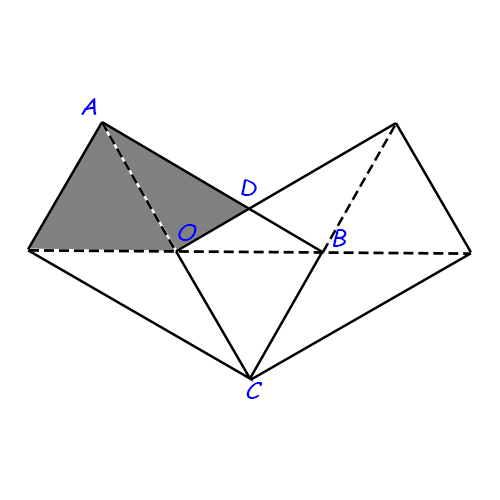
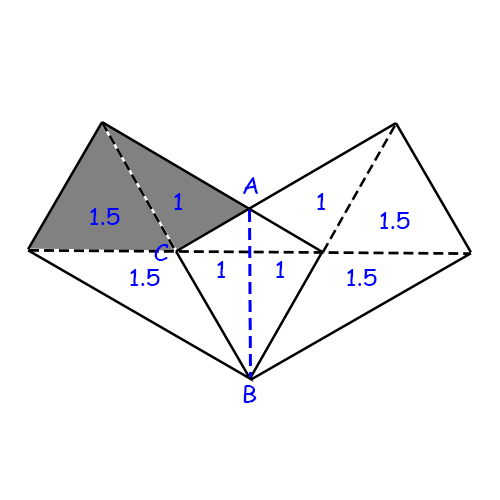
0531

diff --git a/latex/huixin/2025_yingchun_grade34/PDF/contents/chapter_2.tex b/latex/huixin/2025_yingchun_grade34/PDF/contents/chapter_2.tex
@@ -352,20 +352,9 @@
                 \centering
                 \includegraphics[width=0.4\textwidth]{./pics/Chapter_2/seikai_5.png}
             \end{figure}
-            设 $BC=a$. \\
+            连接辅助线. 设ABC的面积为1份，那么其他部分的份数如图所示.\\
             \begin{align*}
-                {AB}^2 &= {AC}^2 - {BC}^2 \\
-                       &= 3{a}^2. \\
-                \triangle DBO &\backsim \triangle OAB,\\
-                \therefore S_{\triangle DBO} : S_{\triangle OAB} &= {OB}^2 : {AB}^2 \\
-                &= {a}^2 : 3{a}^2 \\
-                &=  1:3.
-            \end{align*}
-            设 $S_{\triangle DBO}$ 为1份, 则 $S_{\triangle ADO}$ 为2份, 整个面积是20份.\\
-            \begin{align*}
-                S_{\triangle DBO} &= 420\div 20 \\
-                       &= 21, \\
-                S_{阴影} &= 21\times 5 \\
+                S_{阴影} &= 420\div 10 \times 2.5 \\
                 &= 105 {cm}^2.
             \end{align*}
         }
@@ -444,7 +433,7 @@
 
 \item {
     【三角形相似】
-    在长方形$ABCD$中, $P,Q$分别是$AD,BC$的中点, $EM\mathop{//}NF\mathop{//}AD$, $AE=CF=6$, 阴影部分面积为51, 那么$AD$的长度为\underline{\hbox to 20mm{}}.
+    在长方形$ABCD$中, $P,Q$分别是$AD,BC$的中点, $EM\mathop{//}NF\mathop{//}AD$, $AE=CF=5$, 阴影部分面积为50, 那么$AD$的长度为\underline{\hbox to 20mm{}}.
     \begin{figure}[H] 
         \centering
         \includegraphics[width=0.4\textwidth]{./pics/Chapter_2/1.png}
@@ -454,13 +443,13 @@
             正解: \\
             设$MX=a, XY =b$.\\
             \begin{align*}
-                S_{阴影} &= (6+b)a = 51. \\
+                S_{阴影} &= (5+b)a = 50. \\
                 \triangle PMX &\backsim \triangle QEX,\\
                 \frac{PX}{MX} &= \frac{QX}{EX}, \\
-                \frac{6}{a} &= \frac{6+b}{AP}, \\
-                AP &= \frac{(6+b)a}{6} = \frac{17}{2}, \\
+                \frac{5}{a} &= \frac{5+b}{AP}, \\
+                AP &= \frac{(5+b)a}{5} = 10, \\
                 AD &= 2AP \\
-                &= 17. \\
+                &= 20. \\
             \end{align*}
         }
     \else
@@ -485,14 +474,16 @@
                 \centering
                 \includegraphics[width=0.4\textwidth]{./pics/Chapter_2/seikai_7.png}
             \end{figure}
-            正五边形一个内角为$108\degree$, \\
-            正六边形一个内角为$120\degree$. \\
-            连接BO，容易知道 $\angle CBO = 30\degree$. \\
-            $\therefore \angle EOF = 360\degree - 120\degree \times 2 - 108\degree = 12\degree.$ \\
-            $在等腰三角形\triangle AOB 中$, \\
-            $\therefore \angle AOB = 120\degree + \angle EOF = 132\degree$,\\
-            $\therefore \angle ABO = (180\degree - 132\degree) \div 2 = 24\degree$.\\
-            $\therefore \angle ABC = 24\degree + 30\degree = 54\degree$.\\
+            \begin{gather*}
+            正五边形一个内角为 108\degree, \\
+            正六边形一个内角为120\degree. \\
+            连接BO, 容易知道 \angle CBO = 30\degree. \\
+            \therefore \angle EOF = 360\degree - 120\degree \times 2 - 108\degree = 12\degree. \\
+            在等腰三角形\triangle AOB 中, \\
+            \therefore \angle AOB = 120\degree + \angle EOF = 132\degree,\\
+            \therefore \angle ABO = (180\degree - 132\degree) \div 2 = 24\degree.\\
+            \therefore \angle ABC = 24\degree + 30\degree = 54\degree.\\
+            \end{gather*}
         }
     \else
         \vspace{1cm}
